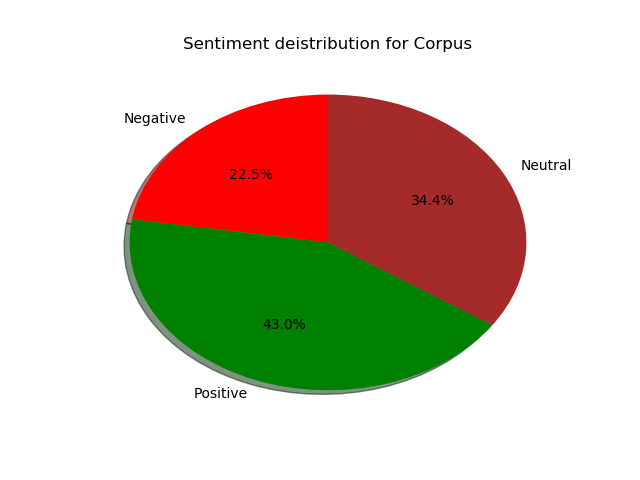
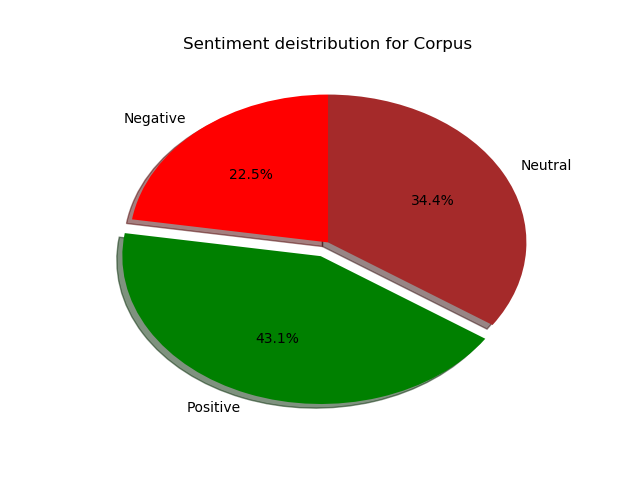
Final commit with added REST service

Changed region(s): [[0.1562, 0.4375, 0.7812, 0.875], [0.4062, 0.6562, 0.4688, 0.7188]]

diff --git a/topicAnalysis.py b/topicAnalysis.py
@@ -11,6 +11,8 @@ from nltk import word_tokenize, pos_tag, WordNetLemmatizer
 from sklearn.feature_extraction.text import TfidfVectorizer
 from sklearn.decomposition import LatentDirichletAllocation
 from sklearn.externals import joblib
+from sklearn.metrics import roc_curve, auc
+
 
 
 class LdaWithTfidf:
@@ -154,7 +156,8 @@ class LdaWithTfidf:
 
     def build_topic_model(self, num_of_topics=config.num_of_topics, max_iterations=config.max_iterations):
         corpus = self.read_twitter_training_dataset()
-        print(corpus)
+        test = self.read_twitter_testing_dataset()
+
         if self.optimising:
             corpus = self.read_twitter_testing_dataset()
         training_tfidf = self.vectorizer.fit_transform(corpus)
@@ -194,7 +197,6 @@ class LdaWithTfidf:
             termFreq = data.sum(axis=0).getA1()
             docLength = data.sum(axis=1).getA1()
             termDists = components_ / components_.sum(axis=1)[:, None]
-            #docTopicDists =
             print("Data present, ", termFreq, docLength)
 
         # when optimising output graphs
@@ -217,5 +219,4 @@ class LdaWithTfidf:
             plt.grid(True)
             plt.savefig(config.topics_results_dir + "topic%d" % compNum + ".png")
             plt.close()
-
         return

diff --git a/sentiMap/evaluate.py b/sentiMap/evaluate.py
@@ -7,7 +7,6 @@ from datetime import datetime
 import numpy
 
 from nltk.tokenize import RegexpTokenizer
-from nltk import word_tokenize, pos_tag, WordNetLemmatizer
 from nltk.sentiment.vader import SentimentIntensityAnalyzer
 
 graphDriver = controller.GraphDriver()
@@ -74,11 +73,12 @@ def test_vader_gold_standard():
     plt.savefig(config.results_dir + "corpus_metrics.png")
     plt.close()
 
+
 def get_avg_sentiment():
     summary = graphDriver.get_sentiment_summary()
     labels = 'Negative', "Positive", "Neutral"
-    sizes = [summary["negative"], summary["positive"], summary["neutral"]]
-    explode = (0, 0, 0)
+    sizes = [summary["negative"], summary["positive"]+1, summary["neutral"]]
+    explode = (0, 0.1, 0)
     colors = ["red", "green", "brown"]
 
     plt.pie(sizes, explode=explode, colors=colors, labels=labels, autopct='%1.1f%%', shadow=True, startangle=90)
@@ -138,6 +138,12 @@ def get_sentiment_for_topics():
     plt.xlabel("Topics")
     plt.ylabel("Sentiment")
     plt.savefig(config.results_dir + "topic_sentiments.png")
+
+def get_sentiment_word_dist():
+    return
+
+def get_sentiment_token_dist():
+    return
 
 # get_avg_sentiment()
 # get_top_user_sentiment()

diff --git a/sentiMap/views.py b/sentiMap/views.py
@@ -67,4 +67,29 @@ def get_user_data(username):
 
     return render_template("userData.html")
 
+
+@app.route('/user/<username>/metrics/posts', methods=['GET'])
+def get_all_posts_for_user(username):
+    return graphDriver.get_all_posts_by_user_over_time(username).to_json()
+
+@app.route('/user/<username>/metrics/sentiment', methods=['GET'])
+def get_sentiment_for_user(username):
+    return graphDriver.get_user_sentiment_over_time(username).to_json()
+
+@app.route('/user/<username>/metrics/topics', methods=['GET'])
+def get_topics_for_user(username):
+    return graphDriver.get_users_topics_as_lists(username).to_json()
+
+@app.route('/user/top', methods=['GET'])
+def get_top_posters():
+    return graphDriver.get_top_posters().to_json()
+
+@app.route('/topic//sentiment', methods=['GET'])
+def get_topic_sentiment():
+    return graphDriver.get_all_topic_sentiments().to_json()
+
+@app.route('/topic/<topic>/sentiment', methods=['GET'])
+def get_avg_sentiment(topic):
+    return graphDriver.get_avg_sentiment_about_topic(topic).to_json()
+
 create_app()
